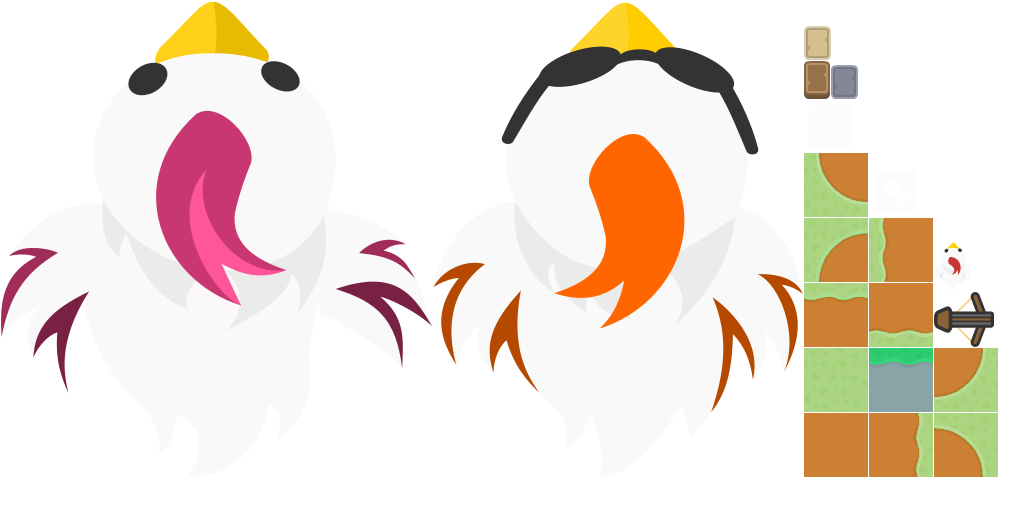
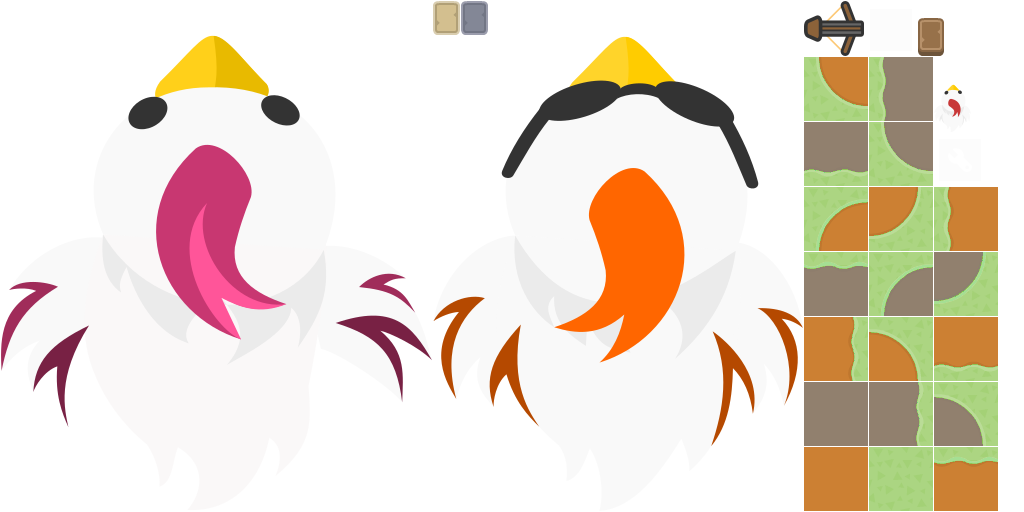
Added selection backgrounds to dirt and tower borders.

diff --git a/core/src/main/kotlin/com/ownedoutcomes/view/Game.kt b/core/src/main/kotlin/com/ownedoutcomes/view/Game.kt
@@ -7,18 +7,18 @@ import com.badlogic.gdx.physics.box2d.Body
 import com.badlogic.gdx.physics.box2d.BodyDef
 import com.badlogic.gdx.physics.box2d.Box2DDebugRenderer
 import com.badlogic.gdx.physics.box2d.World
+import com.badlogic.gdx.scenes.scene2d.InputEvent
 import com.badlogic.gdx.scenes.scene2d.Stage
 import com.badlogic.gdx.scenes.scene2d.ui.Image
 import com.badlogic.gdx.scenes.scene2d.ui.Skin
 import com.badlogic.gdx.scenes.scene2d.utils.Drawable
 import com.badlogic.gdx.utils.Align
 import com.ownedoutcomes.*
+import ktx.actors.onClick
 import ktx.app.KtxScreen
 import ktx.box2d.body
 import ktx.math.vec2
-import ktx.scene2d.buttonGroup
-import ktx.scene2d.imageButton
-import ktx.scene2d.table
+import ktx.scene2d.*
 
 
 class Game(val stage: Stage, val skin: Skin, val world: World) : KtxScreen {
@@ -42,9 +42,7 @@ class Game(val stage: Stage, val skin: Skin, val world: World) : KtxScreen {
       val dirtEnd = centerX + fieldRadius
       for (y in 0..tilesY - 1) {
         for (x in 0..tilesX - 1) {
-          imageButton(style = createStyle(x, y, dirtStart, dirtEnd)) {
-
-          }.cell(height = fieldHeight.toFloat(), width = fieldWidth.toFloat())
+          createTileStyle(x, y, dirtStart, dirtEnd)
         }
         row()
       }
@@ -54,28 +52,44 @@ class Game(val stage: Stage, val skin: Skin, val world: World) : KtxScreen {
     buttonGroup(minCheckedCount = 0, maxCheckedCount = 1) {
       background("brown")
       repeat(5) { index ->
-        imageButton(style = "tower$index") {
+        val buttonName = "tower$index"
+        imageButton(style = buttonName) {
+          name = buttonName
           it.height(60f).width(70f)
             .padBottom(5f).padTop(5f).padLeft(10f).padRight(10f)
+          onClick { event: InputEvent, actor: KImageButton ->
+            val actorName = actor.name
+            println("Button clicked. Event: $event, actor: $actorName")
+          }
         }
       }
     }.cell(growX = false, height = 90f, pad = 10f)
     pack()
   }
 
-  private fun createStyle(x: Int, y: Int, dirtStart: Int, dirtEnd: Int): String {
+  private fun KTableWidget.createTileStyle(x: Int, y: Int, dirtStart: Int, dirtEnd: Int): Unit {
     when {
-      x == dirtStart && y == dirtStart -> return "grass_nw"
-      x == dirtEnd && y == dirtStart -> return "grass_ne"
-      x in dirtStart..dirtEnd && y == dirtStart -> return "grass_n"
-      x == dirtStart && y == dirtEnd -> return "grass_sw"
-      x == dirtEnd && y == dirtEnd -> return "grass_se"
-      x in dirtStart..dirtEnd && y == dirtEnd -> return "grass_s"
-      x == dirtStart && y in dirtStart..dirtEnd -> return "grass_w"
-      x == dirtEnd && y in dirtStart..dirtEnd -> return "grass_e"
-      x in dirtStart..dirtEnd && y in dirtStart..dirtEnd -> return "dirt"
-      else -> return "grass"
+      x == dirtStart && y == dirtStart -> return createImageButton("grass_nw")
+      x == dirtEnd && y == dirtStart -> return createImageButton("grass_ne")
+      x in dirtStart..dirtEnd && y == dirtStart -> return createImageButton("grass_n")
+      x == dirtStart && y == dirtEnd -> return createImageButton("grass_sw")
+      x == dirtEnd && y == dirtEnd -> return createImageButton("grass_se")
+      x in dirtStart..dirtEnd && y == dirtEnd -> return createImageButton("grass_s")
+      x == dirtStart && y in dirtStart..dirtEnd -> return createImageButton("grass_w")
+      x == dirtEnd && y in dirtStart..dirtEnd -> return createImageButton("grass_e")
+      x in dirtStart..dirtEnd && y in dirtStart..dirtEnd -> return createImageButton("dirt")
+      else -> return createImage("grass")
     }
+  }
+
+  private fun KTableWidget.createImageButton(style: String) : Unit {
+    imageButton(style = style) {
+    }.cell(height = fieldHeight.toFloat(), width = fieldWidth.toFloat())
+  }
+
+  private fun KTableWidget.createImage(style: String) {
+    image(style) {
+    }.cell(height = fieldHeight.toFloat(), width = fieldWidth.toFloat())
   }
 
   override fun show() {

diff --git a/core/src/main/kotlin/com/ownedoutcomes/Application.kt b/core/src/main/kotlin/com/ownedoutcomes/Application.kt
@@ -63,34 +63,22 @@ class Application : KtxGame<Screen>() {
       }
     }
 
-    // Grass
-    imageButton(name = "grass") {
-      imageUp = skin.getDrawable("grass")
-      checked = skin.getDrawable("grass")
-    }
-
     // Dirt
     imageButton(name = "dirt") {
       up = skin.getDrawable("dirt")
-      checked = skin.getDrawable("dirt")
+      checked = skin.getDrawable("dirt-selected")
       imageUp = skin.getDrawable("empty-box")
       imageChecked = skin.getDrawable("upgrade-box")
       imageOver = skin.getDrawable("upgrade-box")
     }
 
     // Tower borders
-    val name = "grass_n"
-    imageButton(name = name) {
-      imageUp = skin.getDrawable(name)
-      imageChecked = skin.getDrawable("$name-selected")
-    }
-
-    val grassArray = arrayOf("ne", "e", "se", "s", "sw", "w", "nw")
+    val grassArray = arrayOf("n", "ne", "e", "s", "sw", "se", "w", "nw")
     for (grassStyle in grassArray) {
       val imageButtonName = "grass_$grassStyle"
       imageButton(name = imageButtonName) {
         imageUp = skin.getDrawable(imageButtonName)
-        checked = skin.getDrawable(imageButtonName)
+        imageChecked = skin.getDrawable("$imageButtonName-selected")
       }
     }
   }
